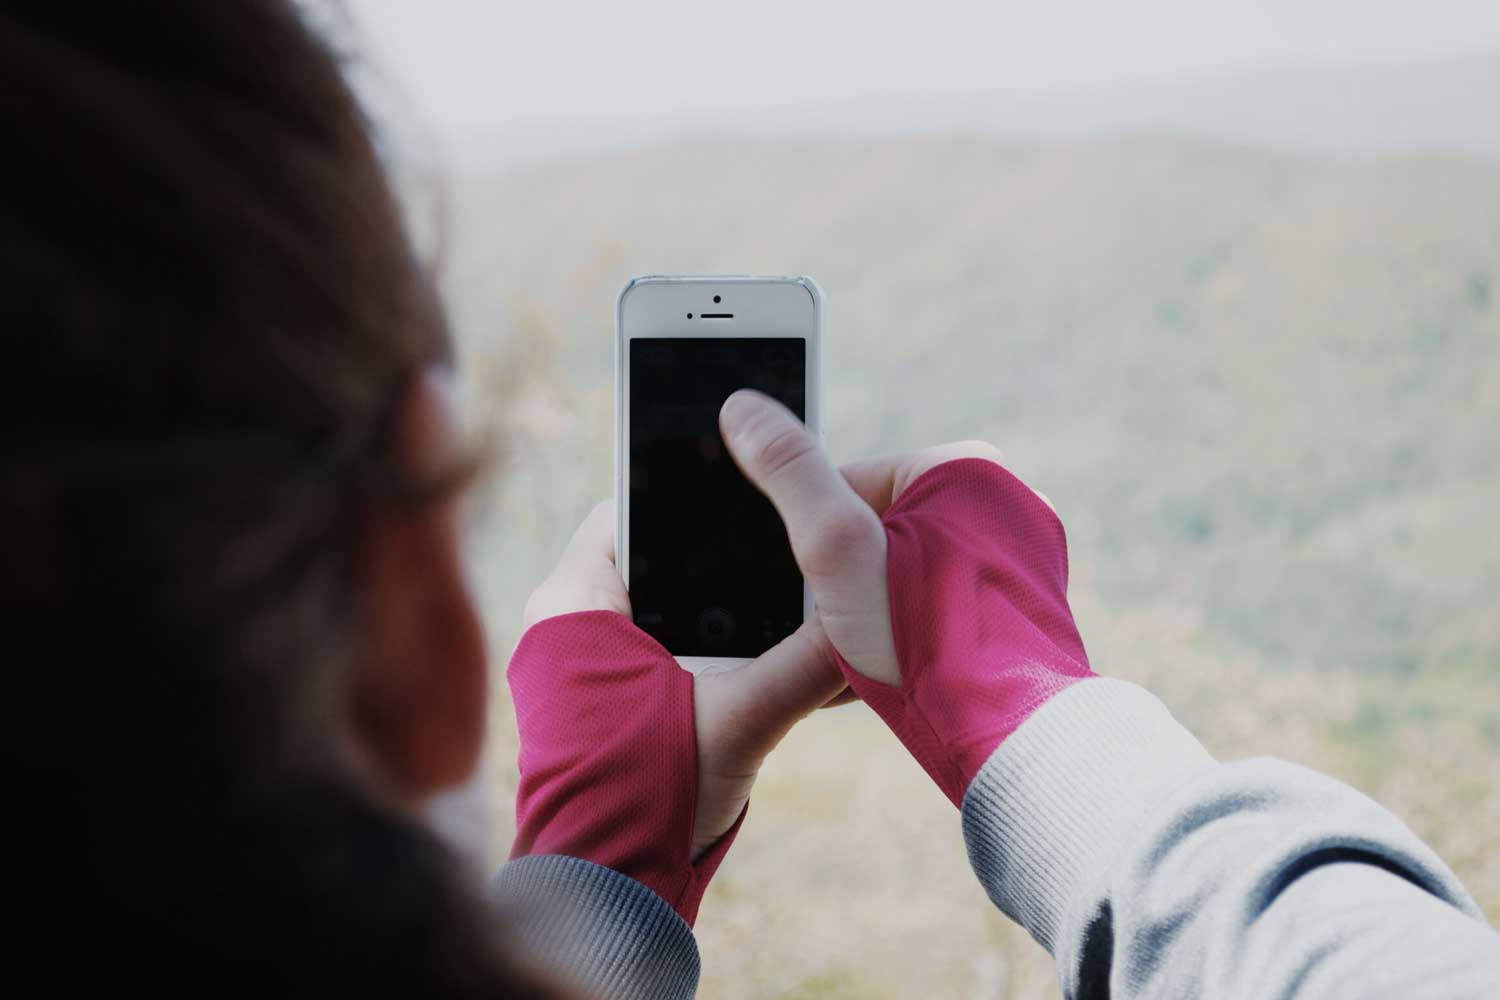
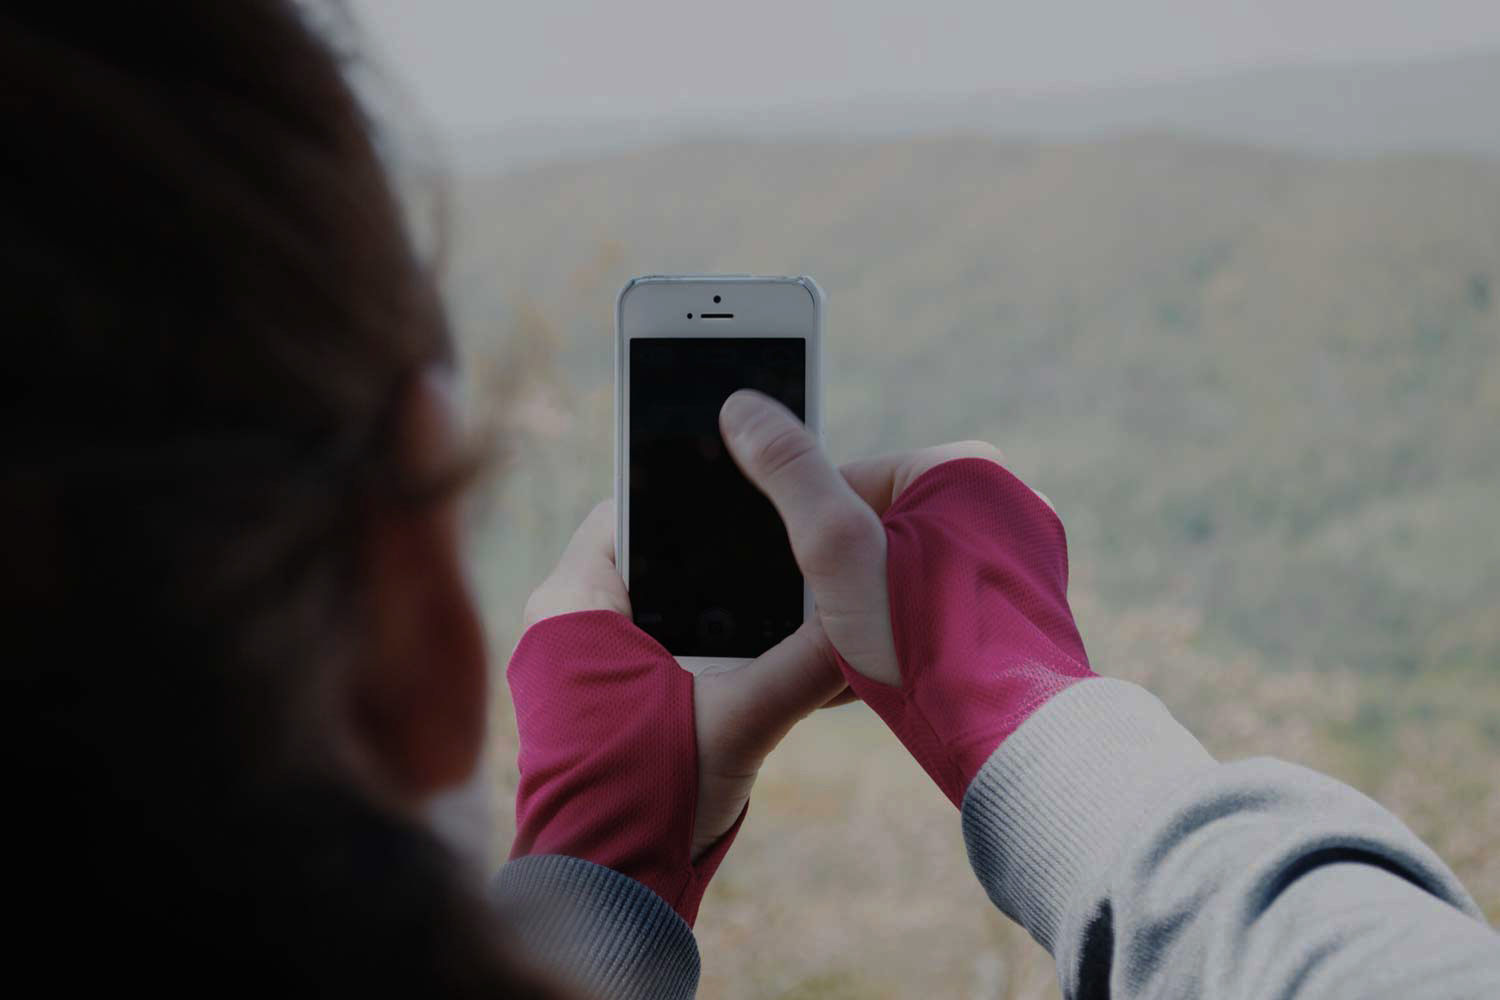
Fixed contrash on context shot

diff --git a/index.html b/index.html
@@ -37,7 +37,7 @@
 									<!-- Logo -->
 										<div id="logo">
 											<h1><a href="#">perfect day</a></h1>
-											<span class="byline">An app that lets you discover new experiences and share your perfect days with others</span>
+											<span class="byline">The app that lets you discover new experiences and share your perfect days with others</span>
 											<li><a href="#" class="button button-style3 button-big">get it on your phone</a></li>
 										</div>
 									<!-- /Logo -->
